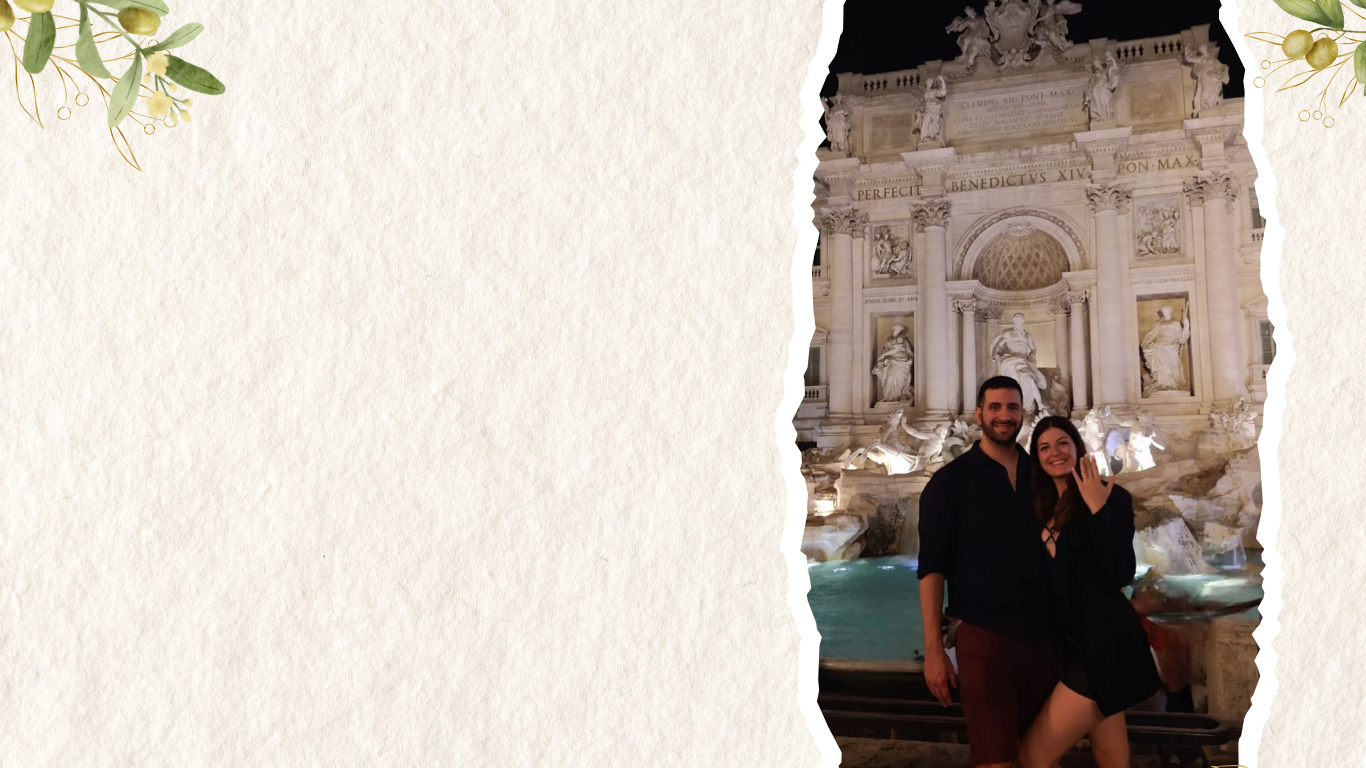
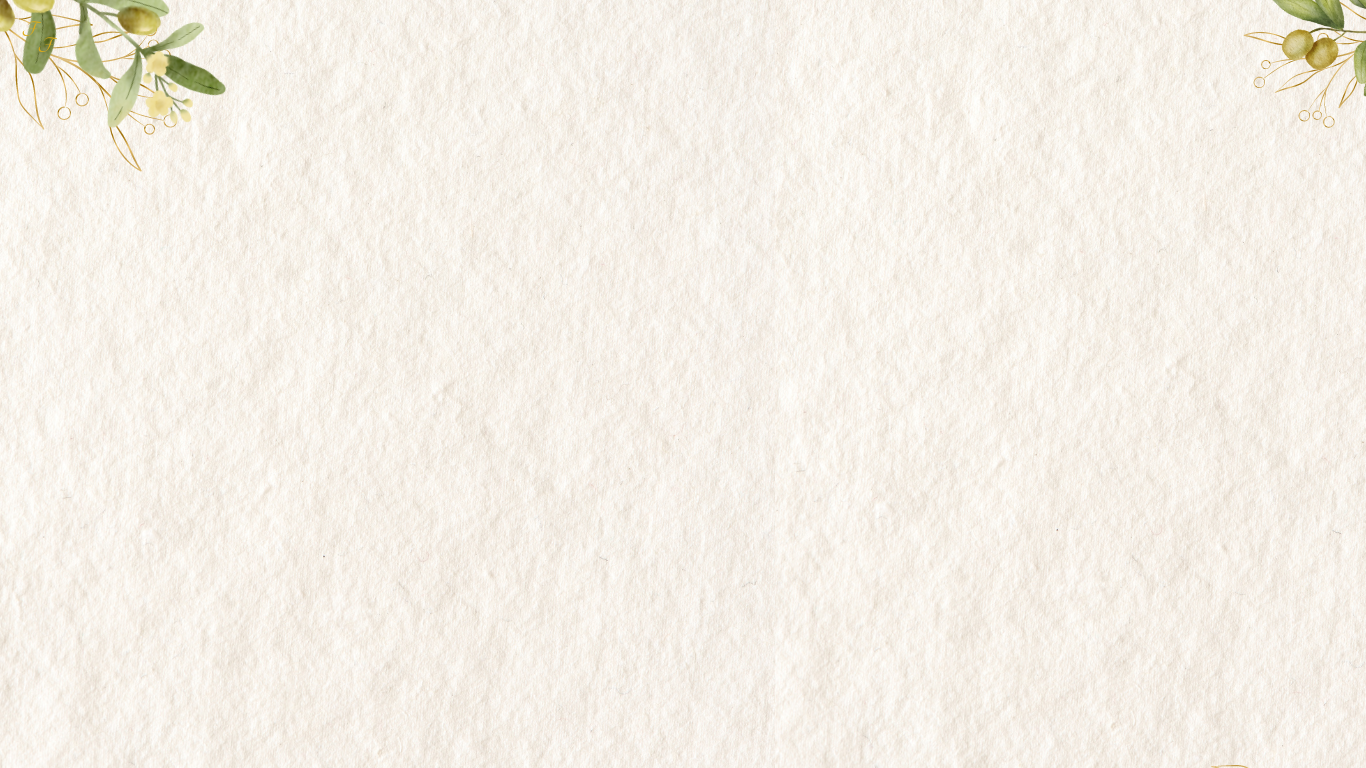
28/7

diff --git a/estilos/styles.css b/estilos/styles.css
@@ -30,6 +30,18 @@ header {
     background-position: center;
 }
 
+header .todo{
+    display: flex;
+}
+
+header .img1{
+    height: 100vh;
+}
+
+header .img2{
+    display: none;
+}
+
 header .portada{
     margin-left: 2rem;
     width: 50%;
@@ -75,19 +87,33 @@ header .portada{
         background-image: url(../imagenes/portada-cel02.png);
     }
 
+    header .img1{
+        display: none;
+    }
+
     header .portada{
         display: block;
         width: 100%;
         margin-left: 0px;
     }
 
+    header .img2{
+        display: block;
+        height: 90%;
+    }
+
+    header .img2 img{
+        height: 100%;
+    }
+
     .portada .padre{
         height: 50%;
-        width: 45%;
+        width: 100%;
         display: flex;
         align-items: center;
         justify-content: center;
     }
+
 
     .padre h2{
         font-size: 4rem;
@@ -168,7 +194,7 @@ h6{
     padding: 4rem 0;
     font-family: "Tangerine", cursive;
     font-size: 4rem;
-    color: #ddab1a;
+    color: #aa770e;
 }
 
 @media (max-width: 615px) {
@@ -258,6 +284,24 @@ h6{
     box-shadow: 5px 5px 10px rgba(0, 0, 0, 0.144);
     background-size: 200% 200%;
 }
+
+/* Ramas */
+
+.contenedor{
+    display: flex;
+    justify-content: space-between;
+}
+
+.objeto1 img, .objeto2 img{
+    width: 150px;
+}
+
+@media (orientation: portrait) {
+    .objeto1 img, .objeto2 img{
+        width: 100px;
+    }
+}
+
 /* Galeria */
 #galeria{
     height: 100vh;
@@ -268,13 +312,13 @@ h6{
     padding-top: 2rem;
     font-family: "Tangerine", cursive;
     font-size: 4rem;
-    color: #ddab1a;
+    color: #aa770e;
 }
 
 #galeria h4{
     font-family: "Playfair Display", serif;
     font-size: 1.3rem;
-    color: #ddab1a;
+    color: #aa770e;
 }
 
 @media (max-width: 524px) {

diff --git a/index.html b/index.html
@@ -4,6 +4,7 @@
     <meta charset="UTF-8">
     <meta name="viewport" content="width=device-width, initial-scale=1.0">
     <title>Flor & Fran</title>
+    <link rel="shortcut icon" href="imagenes/icono.ico">
     <link rel="stylesheet" href="estilos/styles.css">
     <link rel="preconnect" href="https://fonts.googleapis.com">
     <link rel="preconnect" href="https://fonts.gstatic.com" crossorigin>
@@ -13,11 +14,14 @@
 </head>
 <body>
     <header>
-        <div class="portada">
-            <div class="padre"><h2>Flor <br class="reducir"><span>&</span><br class="reducir"> Fran</h2></div>
-            <div class="hijo"><p>"Hoy me vuelvo otra vez y no puedo <br> entender tanta magia y no estar en el cielo. <br>
-                Ya no quiero nada mas"</p>
+        <div class="todo">
+            <div class="portada">
+                <div class="padre"><h2>Flor <br><span>&</span><br>Fran</h2><div class="img2"><img src="imagenes/principal.png" alt=""></div></div>
+                <div class="hijo"><p>"Hoy me vuelvo otra vez y no puedo <br> entender tanta magia y no estar en el cielo. <br>
+                    Ya no quiero nada mas"</p>
+                </div>
             </div>
+            <img class="img1" src="imagenes/principal.png" alt="">
         </div>
     </header>
 
@@ -49,6 +53,14 @@
         <div id="temporizador"></div>
     </div>
     
+    <div class="contenedor">
+        <div class="objeto1">
+            <img src="imagenes/flor.png" alt="">
+        </div>
+        <div class="objeto2">
+            <img src="imagenes/flor2.png" alt="">
+        </div>
+    </div>
 
     <section id="galeria">
         <h3>Retratos de Nuestro Amor</h3>
